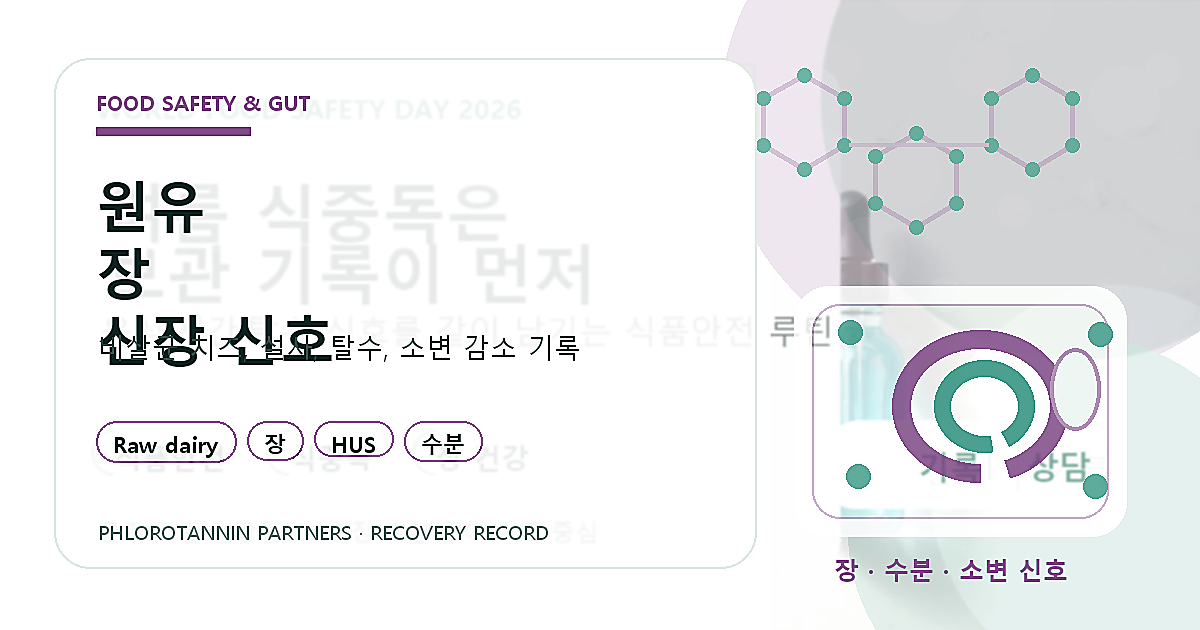
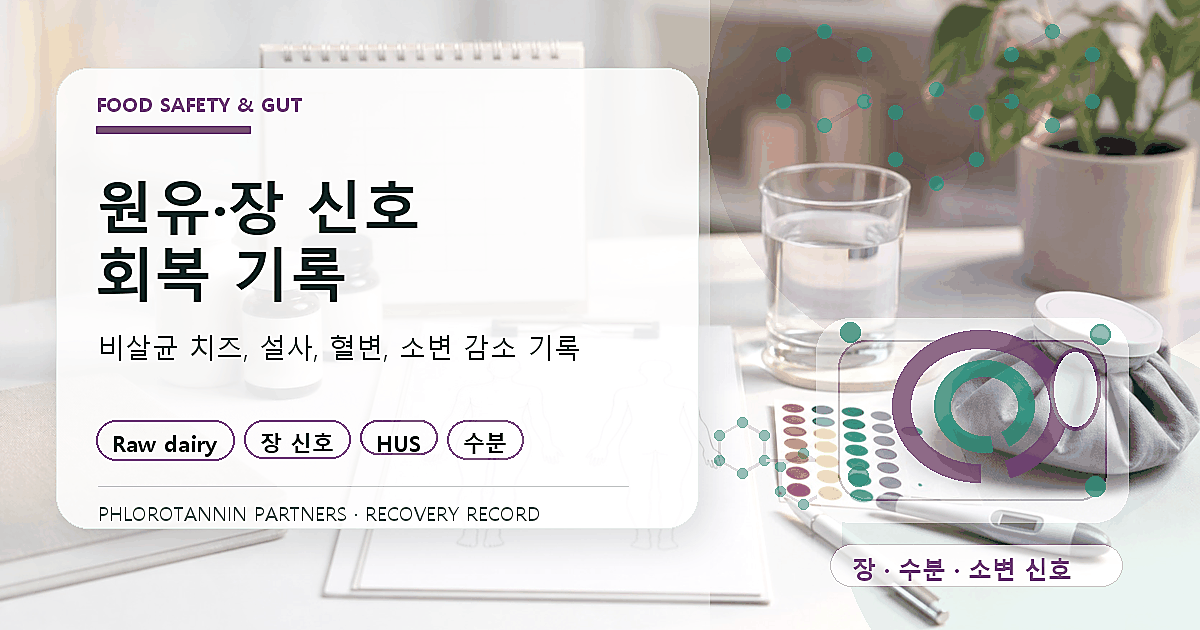
Refine recent blog OG visuals

diff --git a/hanain/scripts/build_high_quality_blog_og_images.py b/hanain/scripts/build_high_quality_blog_og_images.py
@@ -14,7 +14,7 @@ W, H = 1200, 630
 def font(size, bold=False):
     candidates = [
         Path("C:/Windows/Fonts/malgunbd.ttf") if bold else Path("C:/Windows/Fonts/malgun.ttf"),
-        Path("C:/Windows/Fonts/NotoSansKR-Regular.otf"),
+        Path("C:/Windows/Fonts/NotoSansKR-Bold.otf") if bold else Path("C:/Windows/Fonts/NotoSansKR-Regular.otf"),
         Path("C:/Windows/Fonts/arialbd.ttf") if bold else Path("C:/Windows/Fonts/arial.ttf"),
     ]
     for path in candidates:
@@ -23,79 +23,79 @@ def font(size, bold=False):
     return ImageFont.load_default()
 
 
-F_KICKER = font(21, True)
-F_TITLE = font(55, True)
+F_KICKER = font(20, True)
+F_TITLE = font(58, True)
 F_SUB = font(27)
 F_CHIP = font(22, True)
-F_SMALL = font(20)
-F_MARK = font(25, True)
+F_SMALL = font(19)
+F_MARK = font(24, True)
 
 
 ASSETS = [
     {
         "slug": "new-world-screwworm-texas-wound-larvae-pet-livestock-recovery-phlorotannin-2026",
         "kicker": "WOUND SAFETY RECORD",
-        "title": "상처·동물 노출 기록",
+        "title": "상처·동물 노출\n기록",
         "subtitle": "상처 변화, 악취, 유충 의심, 여행·가축 접촉",
         "chips": ["상처", "동물 노출", "여행", "회복"],
-        "accent": (31, 126, 112),
-        "warm": (217, 151, 78),
+        "accent": (24, 121, 106),
+        "warm": (215, 151, 76),
         "bg": "public/og/content-quality/cosmetic-contact-dermatitis-patch-test-record-2026.png",
         "motif": "wound",
     },
     {
         "slug": "infant-formula-botulism-byheart-constipation-floppy-baby-recall-recovery-phlorotannin-2026",
         "kicker": "INFANT FORMULA SAFETY",
-        "title": "분유 리콜·보호자 기록",
+        "title": "분유 리콜\n보호자 기록",
         "subtitle": "제품 확인, 수유 변화, 호흡 신호, 가족 회복 루틴",
         "chips": ["제품 확인", "수유", "호흡", "보호자 회복"],
-        "accent": (46, 102, 154),
-        "warm": (233, 173, 91),
+        "accent": (40, 94, 148),
+        "warm": (232, 169, 84),
         "bg": "public/og/content-quality/personal-health-record-doctor-visit-summary-2026.jpg",
         "motif": "formula",
     },
     {
         "slug": "raw-dairy-ecoli-o157-raw-cheddar-hus-child-kidney-recovery-phlorotannin-2026",
         "kicker": "FOOD SAFETY & GUT",
-        "title": "원유·장·신장 신호",
-        "subtitle": "비살균 치즈, 설사, 탈수, 소변 감소 기록",
-        "chips": ["Raw dairy", "장", "HUS", "수분"],
-        "accent": (128, 75, 136),
-        "warm": (56, 150, 132),
-        "bg": "public/og/content-quality/world-food-safety-day-foodborne-illness-home-record-2026.png",
+        "title": "원유·장 신호\n회복 기록",
+        "subtitle": "비살균 치즈, 설사, 혈변, 소변 감소 기록",
+        "chips": ["Raw dairy", "장 신호", "HUS", "수분"],
+        "accent": (120, 70, 132),
+        "warm": (50, 145, 128),
+        "bg": "public/og/content-quality/inflammation-flare-trigger-symptom-record-2026.jpg",
         "motif": "gut",
     },
     {
         "slug": "youth-nicotine-vape-pouch-addiction-quit-recovery-phlorotannin-2026",
         "kicker": "NICOTINE RECOVERY MAP",
-        "title": "청소년 니코틴 회복",
-        "subtitle": "전자담배, 파우치, 갈망, 수면·호흡 기록",
-        "chips": ["Vape", "파우치", "수면", "호흡"],
-        "accent": (46, 100, 155),
-        "warm": (236, 171, 86),
+        "title": "니코틴 의존\n회복 기록",
+        "subtitle": "전자담배, 파우치, 갈망, 수면·불안 변화",
+        "chips": ["Vape", "파우치", "수면", "갈망"],
+        "accent": (44, 96, 150),
+        "warm": (235, 168, 82),
         "bg": "public/og/content-quality/screen-time-sleep-anxiety-digital-behavior-record-2026.png",
         "motif": "nicotine",
     },
     {
         "slug": "toxic-chemical-exposure-decontamination-triage-airway-recovery-phlorotannin-2026",
         "kicker": "CHEMICAL EXPOSURE GUIDE",
-        "title": "화학물질 노출 회복",
-        "subtitle": "벗어나기, 벗기기, 씻기, 도움 요청 후 기록",
+        "title": "화학물질 노출\n안전 기록",
+        "subtitle": "벗어나기, 벗기기, 씻기, 도움 요청 순서",
         "chips": ["제염", "호흡", "피부", "응급"],
-        "accent": (34, 124, 105),
-        "warm": (214, 149, 82),
+        "accent": (32, 120, 102),
+        "warm": (212, 147, 78),
         "bg": "public/og/content-quality/doctor-visit-medication-question-list-record-2026.png",
         "motif": "chemical",
     },
     {
         "slug": "world-blood-donor-day-2026-iron-hydration-recovery-phlorotannin-2026",
         "kicker": "WORLD BLOOD DONOR DAY",
-        "title": "헌혈 후 컨디션 회복",
-        "subtitle": "철분, 수분, 피로, 운동 복귀를 함께 기록",
+        "title": "헌혈 전후\n회복 기록",
+        "subtitle": "철분, 수분, 피로, 이동 복귀를 함께 기록",
         "chips": ["헌혈", "철분", "수분", "피로"],
-        "accent": (164, 63, 82),
-        "warm": (57, 143, 137),
-        "bg": "public/og/content-quality/babesiosis-tick-red-blood-cell-fatigue-anemia-recovery-phlorotannin-2026.png",
+        "accent": (158, 58, 78),
+        "warm": (54, 140, 132),
+        "bg": "public/og/content-quality/home-blood-pressure-monitor-buying-record-2026.jpg",
         "motif": "blood",
     },
 ]
@@ -116,29 +116,27 @@ def load_bg(item):
     if path.exists():
         img = crop_cover(Image.open(path))
     else:
-        img = Image.new("RGB", (W, H), (246, 250, 248))
-    img = ImageEnhance.Color(img).enhance(0.82)
-    img = ImageEnhance.Contrast(img).enhance(0.9)
-    img = ImageEnhance.Brightness(img).enhance(1.06)
-    return img.filter(ImageFilter.GaussianBlur(1.2))
+        img = Image.new("RGB", (W, H), (247, 250, 248))
+    img = ImageEnhance.Color(img).enhance(0.94)
+    img = ImageEnhance.Contrast(img).enhance(0.98)
+    img = ImageEnhance.Brightness(img).enhance(1.08)
+    return img.filter(ImageFilter.GaussianBlur(0.45))
 
 
 def add_texture(img, seed_value):
     rng = random.Random(seed_value)
     overlay = Image.new("RGBA", (W, H), (0, 0, 0, 0))
     draw = ImageDraw.Draw(overlay, "RGBA")
-    for _ in range(1800):
+    for _ in range(1100):
         x = rng.randrange(W)
         y = rng.randrange(H)
-        a = rng.randrange(5, 20)
-        v = rng.randrange(210, 255)
-        draw.point((x, y), fill=(v, v, v, a))
-    for _ in range(130):
-        x = rng.randrange(-120, W)
-        y = rng.randrange(-80, H)
-        r = rng.randrange(18, 90)
-        color = (255, 255, 255, rng.randrange(8, 24))
-        draw.ellipse((x, y, x + r, y + r), fill=color)
+        v = rng.randrange(220, 255)
+        draw.point((x, y), fill=(v, v, v, rng.randrange(4, 15)))
+    for _ in range(80):
+        x = rng.randrange(-80, W)
+        y = rng.randrange(-70, H)
+        r = rng.randrange(26, 120)
+        draw.ellipse((x, y, x + r, y + r), fill=(255, 255, 255, rng.randrange(5, 17)))
     return Image.alpha_composite(img.convert("RGBA"), overlay)
 
 
@@ -146,77 +144,90 @@ def rounded(draw, box, radius, fill, outline=None, width=1):
     draw.rounded_rectangle(box, radius=radius, fill=fill, outline=outline, width=width)
 
 
-def draw_molecule(draw, x, y, accent, warm):
-    centers = [(x, y), (x + 112, y + 58), (x + 228, y)]
+def soft_panel(layer, box, radius, fill, outline):
+    shadow = Image.new("RGBA", (W, H), (0, 0, 0, 0))
+    sdraw = ImageDraw.Draw(shadow, "RGBA")
+    x0, y0, x1, y1 = box
+    sdraw.rounded_rectangle((x0 + 10, y0 + 14, x1 + 10, y1 + 14), radius=radius, fill=(20, 55, 48, 35))
+    shadow = shadow.filter(ImageFilter.GaussianBlur(18))
+    layer.alpha_composite(shadow)
+    draw = ImageDraw.Draw(layer, "RGBA")
+    rounded(draw, box, radius, fill, outline, 1)
+
+
+def draw_molecule(draw, x, y, accent, warm, scale=1.0, alpha=82):
+    centers = [(x, y), (x + int(112 * scale), y + int(58 * scale)), (x + int(228 * scale), y)]
+    radius = 47 * scale
     for cx, cy in centers:
         pts = []
         for idx in range(6):
             ang = math.pi / 6 + idx * math.pi / 3
-            pts.append((cx + math.cos(ang) * 47, cy + math.sin(ang) * 47))
-        draw.line(pts + [pts[0]], fill=(*accent, 86), width=5)
+            pts.append((cx + math.cos(ang) * radius, cy + math.sin(ang) * radius))
+        draw.line(pts + [pts[0]], fill=(*accent, alpha), width=max(3, int(5 * scale)))
         for px, py in pts:
-            draw.ellipse((px - 7, py - 7, px + 7, py + 7), fill=(*warm, 185))
-    draw.line((x + 45, y + 22, x + 184, y + 22), fill=(*accent, 70), width=4)
+            dot = max(5, int(7 * scale))
+            draw.ellipse((px - dot, py - dot, px + dot, py + dot), fill=(*warm, min(195, alpha + 92)))
+    draw.line((x + int(45 * scale), y + int(22 * scale), x + int(184 * scale), y + int(22 * scale)), fill=(*accent, max(48, alpha - 12)), width=max(3, int(4 * scale)))
 
 
 def draw_chip(draw, x, y, text, accent):
     bbox = draw.textbbox((0, 0), text, font=F_CHIP)
     tw = bbox[2] - bbox[0]
     th = bbox[3] - bbox[1]
-    w = tw + 34
-    h = th + 19
-    rounded(draw, (x, y, x + w, y + h), 21, (255, 255, 255, 226), (*accent, 205), 2)
-    draw.text((x + 17, y + 8), text, fill=(18, 45, 42), font=F_CHIP)
-    return x + w + 11
+    w = tw + 32
+    h = th + 18
+    rounded(draw, (x, y, x + w, y + h), 20, (255, 255, 255, 226), (*accent, 196), 2)
+    draw.text((x + 16, y + 8), text, fill=(18, 44, 41), font=F_CHIP)
+    return x + w + 10
 
 
-def draw_photo_motif(draw, item):
+def draw_motif(draw, item):
     accent, warm = item["accent"], item["warm"]
-    x0, y0, x1, y1 = 794, 286, 1126, 536
-    rounded(draw, (x0, y0, x1, y1), 34, (255, 255, 255, 206), (255, 255, 255, 210), 2)
-    rounded(draw, (x0 + 18, y0 + 18, x1 - 18, y1 - 18), 28, (255, 255, 255, 80), (*accent, 90), 2)
-
     motif = item["motif"]
+    rounded(draw, (816, 318, 1128, 522), 34, (255, 255, 255, 118), (255, 255, 255, 126), 1)
+    rounded(draw, (838, 340, 1106, 500), 28, (255, 255, 255, 50), (*accent, 78), 2)
+
     if motif == "formula":
-        rounded(draw, (915, 338, 1014, 492), 25, (247, 250, 249, 245), (*accent, 175), 4)
-        draw.rectangle((929, 365, 1000, 405), fill=(*warm, 170))
-        draw.text((940, 426), "LOT", fill=accent, font=F_MARK)
-        draw.arc((1030, 352, 1100, 452), start=260, end=100, fill=(*accent, 190), width=7)
-        draw.line((1066, 452, 1066, 496), fill=(*accent, 190), width=7)
-        caption = "제품 · 수유 · 보호자 기록"
+        rounded(draw, (918, 350, 1018, 496), 25, (255, 255, 255, 215), (*accent, 168), 4)
+        draw.rectangle((934, 378, 1002, 414), fill=(*warm, 156))
+        draw.text((945, 431), "LOT", fill=accent, font=F_MARK)
+        draw.arc((1032, 360, 1100, 456), start=260, end=100, fill=(*accent, 176), width=7)
+        draw.line((1068, 456, 1068, 498), fill=(*accent, 176), width=7)
+        label = "제품 · 수유 · 보호자 기록"
     elif motif == "wound":
-        draw.ellipse((910, 342, 1040, 474), fill=(248, 220, 205, 225), outline=(*accent, 135), width=4)
-        draw.ellipse((948, 374, 1005, 430), fill=(*warm, 230), outline=(255, 255, 255, 190), width=4)
-        draw.line((875, 500, 1088, 500), fill=(*warm, 145), width=6)
-        caption = "상처 · 노출 · 회복 기록"
+        draw.ellipse((914, 342, 1046, 474), fill=(248, 220, 205, 188), outline=(*accent, 126), width=4)
+        draw.ellipse((953, 376, 1012, 434), fill=(*warm, 205), outline=(255, 255, 255, 188), width=4)
+        draw.line((878, 500, 1088, 500), fill=(*warm, 130), width=6)
+        label = "상처 · 노출 · 회복 기록"
     elif motif == "gut":
-        draw.arc((892, 330, 1068, 482), start=90, end=430, fill=(*accent, 220), width=19)
-        draw.arc((934, 360, 1034, 452), start=80, end=420, fill=(*warm, 230), width=17)
-        draw.ellipse((1050, 348, 1100, 430), fill=(236, 246, 242, 245), outline=(*accent, 150), width=4)
-        caption = "장 · 수분 · 소변 신호"
+        draw.arc((892, 330, 1068, 482), start=90, end=430, fill=(*accent, 205), width=19)
+        draw.arc((934, 360, 1034, 452), start=80, end=420, fill=(*warm, 206), width=17)
+        draw.ellipse((1050, 348, 1100, 430), fill=(236, 246, 242, 210), outline=(*accent, 135), width=4)
+        label = "장 · 수분 · 소변 신호"
     elif motif == "nicotine":
-        rounded(draw, (917, 356, 1018, 458), 26, (245, 250, 250, 245), (*accent, 180), 5)
-        draw.line((944, 338, 1032, 338), fill=(*warm, 225), width=11)
-        draw.line((1032, 338, 1083, 388), fill=(*warm, 205), width=8)
-        draw.arc((910, 372, 1042, 510), start=205, end=25, fill=(*warm, 195), width=7)
-        caption = "갈망 · 수면 · 호흡"
+        rounded(draw, (918, 356, 1018, 458), 26, (255, 255, 255, 208), (*accent, 170), 5)
+        draw.line((944, 338, 1032, 338), fill=(*warm, 206), width=11)
+        draw.line((1032, 338, 1083, 388), fill=(*warm, 192), width=8)
+        draw.arc((910, 372, 1042, 510), start=205, end=25, fill=(*warm, 178), width=7)
+        label = "갈망 · 수면 · 불안 기록"
     elif motif == "chemical":
-        draw.polygon([(925, 486), (995, 336), (1070, 486)], fill=(251, 242, 221, 235), outline=(*accent, 175))
-        draw.line((995, 374, 995, 430), fill=(*accent, 230), width=10)
-        draw.ellipse((986, 447, 1004, 465), fill=(*accent, 230))
-        draw.arc((875, 352, 936, 430), start=300, end=80, fill=(*warm, 218), width=7)
-        draw.arc((1056, 352, 1115, 430), start=100, end=240, fill=(*warm, 218), width=7)
-        caption = "벗어나기 · 씻기 · 도움"
+        draw.polygon([(925, 486), (995, 336), (1070, 486)], fill=(251, 242, 221, 210), outline=(*accent, 164))
+        draw.line((995, 374, 995, 430), fill=(*accent, 214), width=10)
+        draw.ellipse((986, 447, 1004, 465), fill=(*accent, 214))
+        draw.arc((875, 352, 936, 430), start=300, end=80, fill=(*warm, 196), width=7)
+        draw.arc((1056, 352, 1115, 430), start=100, end=240, fill=(*warm, 196), width=7)
+        label = "벗어나기 · 씻기 · 도움"
     else:
         drop = [(990, 330), (930, 418), (964, 492), (1044, 492), (1086, 418)]
-        draw.polygon(drop, fill=(*accent, 218), outline=(255, 255, 255, 195))
-        draw.ellipse((934, 398, 1076, 518), fill=(*accent, 218), outline=(255, 255, 255, 195), width=4)
+        draw.polygon(drop, fill=(*accent, 196), outline=(255, 255, 255, 180))
+        draw.ellipse((934, 398, 1076, 518), fill=(*accent, 196), outline=(255, 255, 255, 180), width=4)
         draw.ellipse((968, 422, 1046, 490), fill=(255, 255, 255, 120))
-        caption = "철분 · 수분 · 피로"
+        label = "철분 · 수분 · 피로"
 
     for px, py in [(850, 332), (1100, 334), (858, 476), (1095, 486)]:
-        draw.ellipse((px - 12, py - 12, px + 12, py + 12), fill=(*warm, 205))
-    draw.text((834, 552), caption, fill=accent, font=F_MARK)
+        draw.ellipse((px - 10, py - 10, px + 10, py + 10), fill=(*warm, 172))
+    rounded(draw, (830, 544, 1122, 586), 21, (255, 255, 255, 172), (*accent, 70), 1)
+    draw.text((852, 552), label, fill=accent, font=F_MARK)
 
 
 def make(item):
@@ -227,37 +238,40 @@ def make(item):
     overlay = Image.new("RGBA", (W, H), (255, 255, 255, 0))
     draw = ImageDraw.Draw(overlay, "RGBA")
 
-    draw.rectangle((0, 0, W, H), fill=(247, 251, 249, 64))
-    draw.rectangle((0, 0, 770, H), fill=(255, 255, 255, 154))
-    draw.ellipse((720, -160, 1320, 384), fill=(*accent, 34))
-    draw.ellipse((848, 334, 1280, 730), fill=(*warm, 34))
-    draw_molecule(draw, 804, 122, accent, warm)
+    draw.rectangle((0, 0, W, H), fill=(247, 251, 249, 28))
+    draw.rectangle((0, 0, 710, H), fill=(255, 255, 255, 118))
+    draw.rectangle((710, 0, W, H), fill=(255, 255, 255, 20))
+    draw.ellipse((706, -160, 1320, 386), fill=(*accent, 26))
+    draw.ellipse((842, 334, 1300, 730), fill=(*warm, 26))
+    draw_molecule(draw, 824, 78, accent, warm, 1.0, 78)
+    draw_molecule(draw, 742, 448, accent, warm, 0.55, 44)
 
-    panel = (54, 58, 756, 568)
-    rounded(draw, panel, 36, (255, 255, 255, 228), (225, 235, 231, 240), 2)
-    draw.rectangle((96, 127, 250, 135), fill=(*accent, 255))
-    draw.text((96, 88), item["kicker"], fill=accent, font=F_KICKER)
+    panel = (56, 68, 698, 528)
+    soft_panel(overlay, panel, 32, (255, 255, 255, 232), (230, 239, 235, 240))
+    draw = ImageDraw.Draw(overlay, "RGBA")
+    draw.text((96, 90), item["kicker"], fill=accent, font=F_KICKER)
+    draw.rectangle((96, 126, 250, 133), fill=(*accent, 255))
 
-    y = 168
-    for line in item["title"].split("·"):
-        line = line.strip()
-        draw.text((96, y), line, fill=(14, 36, 34), font=F_TITLE)
+    y = 166
+    for line in item["title"].splitlines():
+        draw.text((96, y), line, fill=(13, 34, 32), font=F_TITLE)
         y += 67
-    if "·" not in item["title"]:
-        y += 2
-    draw.text((98, 328), item["subtitle"], fill=(54, 76, 72), font=F_SUB)
+
+    draw.text((98, 328), item["subtitle"], fill=(52, 74, 70), font=F_SUB)
 
     x = 96
     for chip in item["chips"]:
-        x = draw_chip(draw, x, 421, chip, accent)
+        x = draw_chip(draw, x, 420, chip, accent)
 
-    draw.text((98, 518), "PHLOROTANNIN PARTNERS · RECOVERY RECORD", fill=(83, 104, 100), font=F_SMALL)
-    draw_photo_motif(draw, item)
+    draw.line((98, 486, 628, 486), fill=(205, 218, 213, 210), width=1)
+    draw.text((98, 500), "PHLOROTANNIN PARTNERS · RECOVERY RECORD", fill=(78, 100, 96), font=F_SMALL)
+    draw_motif(draw, item)
 
     final = Image.alpha_composite(img, overlay).convert("RGB")
-    final = final.filter(ImageFilter.UnsharpMask(radius=1.1, percent=125, threshold=2))
+    final = final.filter(ImageFilter.UnsharpMask(radius=1.1, percent=118, threshold=2))
     OUT.mkdir(parents=True, exist_ok=True)
-    final.save(OUT / f"{item['slug']}.png", "PNG", optimize=True, compress_level=6)
+    optimized = final.quantize(colors=224, method=Image.Quantize.MEDIANCUT)
+    optimized.save(OUT / f"{item['slug']}.png", "PNG", optimize=True, compress_level=9)
 
 
 def main():

diff --git a/hanain/docs/blog-og-image-quality-audit-result.md b/hanain/docs/blog-og-image-quality-audit-result.md
@@ -7,9 +7,9 @@
 
 | Status | Source | Image | Bytes | Size | Stddev | Pixel entropy | Notes |
 |---|---|---|---:|---:|---:|---:|---|
-| PASS | localTrendBlogPostsRound63.js | `/og/content-quality/new-world-screwworm-texas-wound-larvae-pet-livestock-recovery-phlorotannin-2026.png` | 592198 | 1200x630 | 52.3 | 6.63 | premium enough |
-| PASS | localTrendBlogPostsRound63.js | `/og/content-quality/infant-formula-botulism-byheart-constipation-floppy-baby-recall-recovery-phlorotannin-2026.png` | 450079 | 1200x630 | 49.1 | 6.19 | premium enough |
-| PASS | localTrendBlogPostsRound63.js | `/og/content-quality/raw-dairy-ecoli-o157-raw-cheddar-hus-child-kidney-recovery-phlorotannin-2026.png` | 169145 | 1200x630 | 41.3 | 3.10 | premium enough |
-| PASS | localTrendBlogPostsRound64.js | `/og/content-quality/youth-nicotine-vape-pouch-addiction-quit-recovery-phlorotannin-2026.png` | 427000 | 1200x630 | 44.6 | 4.48 | premium enough |
-| PASS | localTrendBlogPostsRound64.js | `/og/content-quality/toxic-chemical-exposure-decontamination-triage-airway-recovery-phlorotannin-2026.png` | 480301 | 1200x630 | 50.2 | 5.57 | premium enough |
-| PASS | localTrendBlogPostsRound64.js | `/og/content-quality/world-blood-donor-day-2026-iron-hydration-recovery-phlorotannin-2026.png` | 151859 | 1200x630 | 45.1 | 2.97 | premium enough |
+| PASS | localTrendBlogPostsRound63.js | `/og/content-quality/new-world-screwworm-texas-wound-larvae-pet-livestock-recovery-phlorotannin-2026.png` | 268986 | 1200x630 | - | - | premium enough |
+| PASS | localTrendBlogPostsRound63.js | `/og/content-quality/infant-formula-botulism-byheart-constipation-floppy-baby-recall-recovery-phlorotannin-2026.png` | 220416 | 1200x630 | - | - | premium enough |
+| PASS | localTrendBlogPostsRound63.js | `/og/content-quality/raw-dairy-ecoli-o157-raw-cheddar-hus-child-kidney-recovery-phlorotannin-2026.png` | 196212 | 1200x630 | - | - | premium enough |
+| PASS | localTrendBlogPostsRound64.js | `/og/content-quality/youth-nicotine-vape-pouch-addiction-quit-recovery-phlorotannin-2026.png` | 215463 | 1200x630 | - | - | premium enough |
+| PASS | localTrendBlogPostsRound64.js | `/og/content-quality/toxic-chemical-exposure-decontamination-triage-airway-recovery-phlorotannin-2026.png` | 234327 | 1200x630 | - | - | premium enough |
+| PASS | localTrendBlogPostsRound64.js | `/og/content-quality/world-blood-donor-day-2026-iron-hydration-recovery-phlorotannin-2026.png` | 213197 | 1200x630 | - | - | premium enough |

diff --git a/hanain/docs/qa-batch-constitution-result.md b/hanain/docs/qa-batch-constitution-result.md
@@ -1,6 +1,6 @@
 # QA Batch Constitution Result
 
-- generatedAt: 2026-06-07T04:04:50.076Z
+- generatedAt: 2026-06-07T04:45:27.582Z
 - policy: 2026-06-07-strategic-qna-recovery-identity-v2
 - srcStrategicItems: 51
 - publicStrategicItems: 51

diff --git a/hanain/docs/qa-duplicate-template-detector-result.md b/hanain/docs/qa-duplicate-template-detector-result.md
@@ -1,6 +1,6 @@
 # QA Duplicate Template Detector Result
 
-- generatedAt: 2026-06-07T04:04:51.896Z
+- generatedAt: 2026-06-07T04:45:28.541Z
 - validatedScanned: 1969
 - repeatedSentenceWarnings(>=4): 140
 - repeatedParagraphFails(>=3): 14
